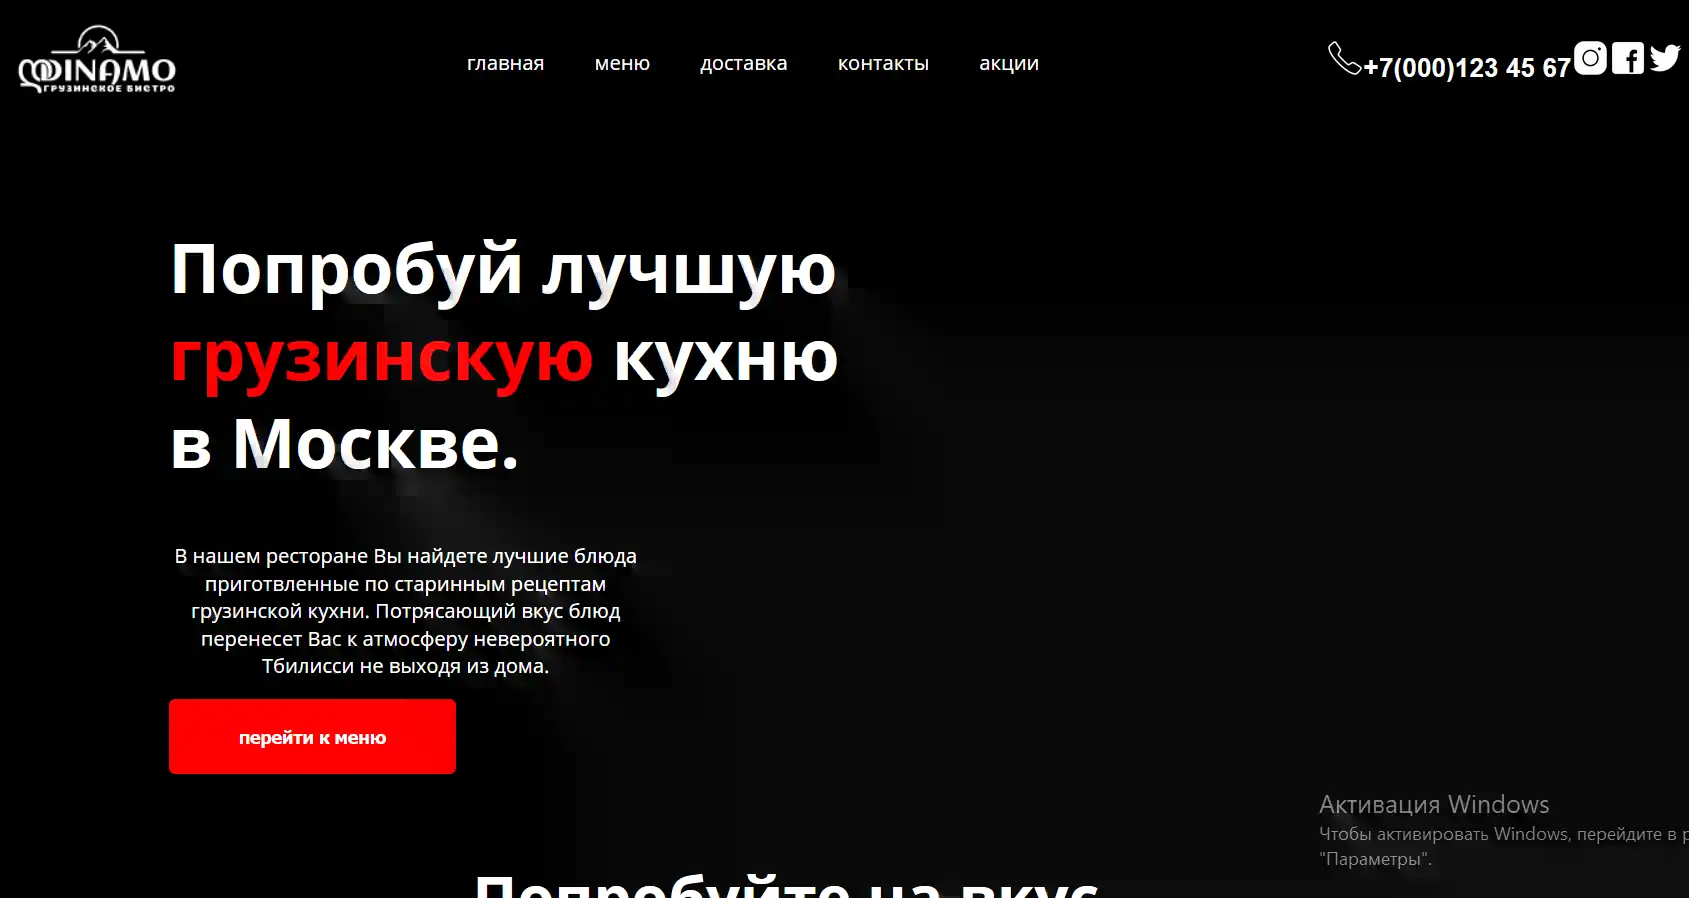
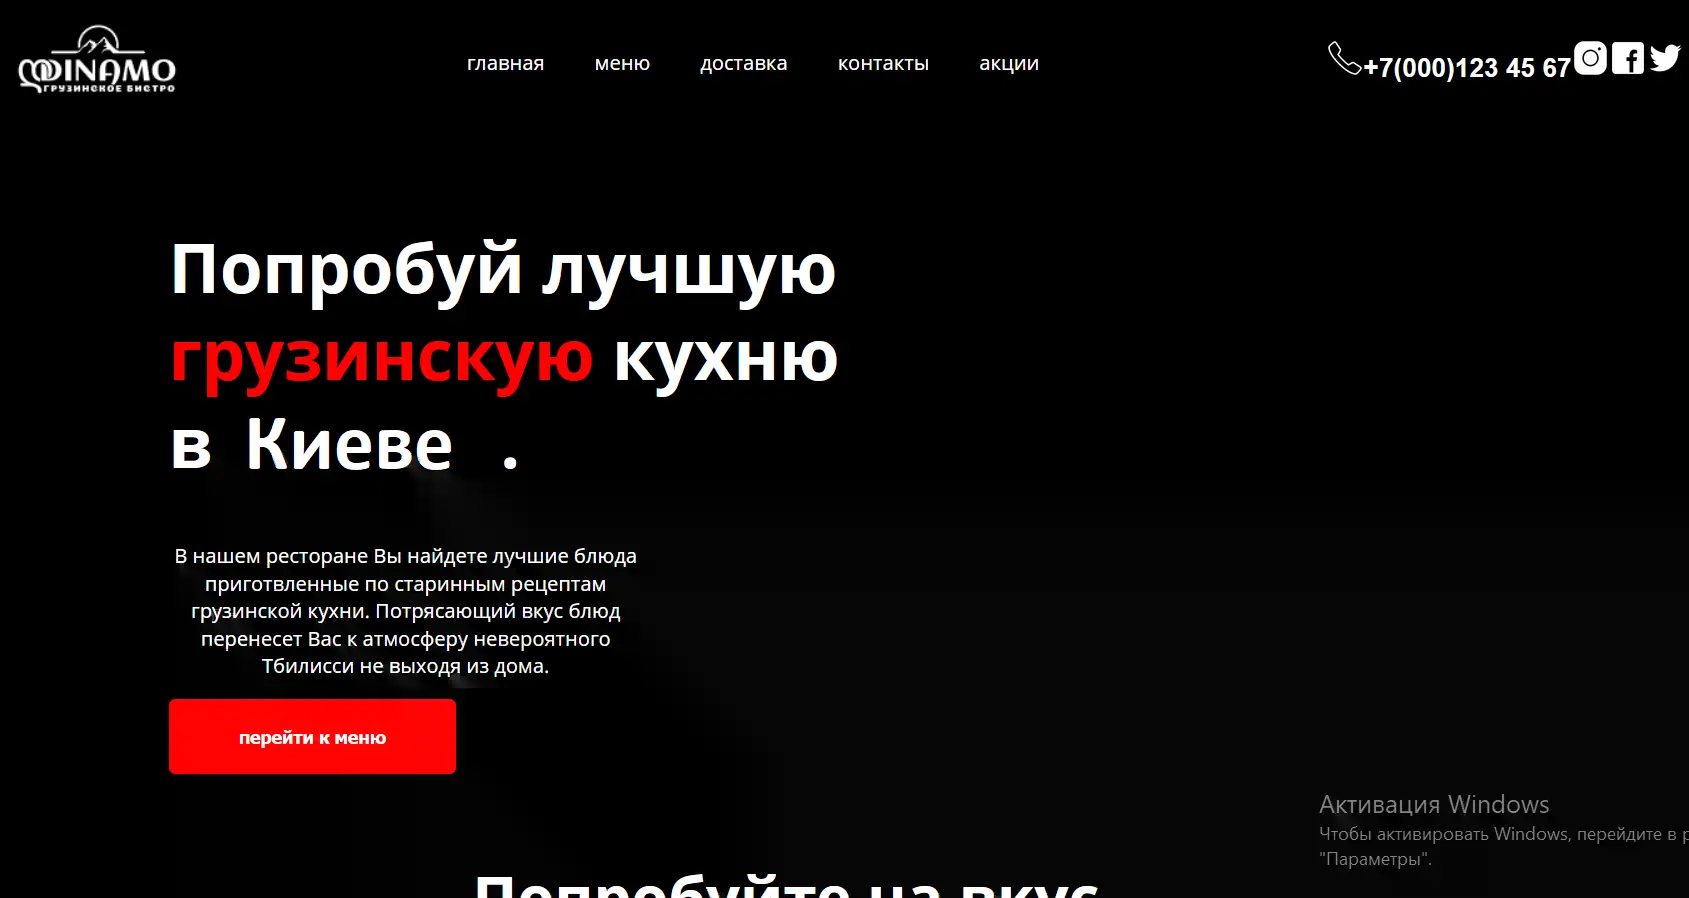
feat: Create

diff --git a/web/site/georgianProject/index.html b/web/site/georgianProject/index.html
@@ -22,7 +22,7 @@
         </nav>
         <section class="social-section">
             <ul>
-                <li><img src="./img/icons8-phone-100.png" alt="namber phone"><a href="#">+7(000)123 45 67</a></li>
+                <li><img src="./img/icons8-phone-100.png" alt="namber phone"><a href="#">+38 (000)123 45 67</a></li>
                 <li><a href="#"><img src="./img/icons8-instagram-100.png" alt="instagram"></a></li>
                 <li><a href="#"></a><img src="./img/icons8-facebook-100.png" alt="facebook"></li>
                 <li><a href="#"><img src="./img/icons8-twitter-90.png" alt="twiter"></a></li>
@@ -34,7 +34,7 @@
             <div>
                 <h1>Попробуй лучшую<br>
                     <span>грузинскую</span> кухню<br>
-                    в Москве.</h1>
+                    в Киеве.</h1>
                 <p class="discryption">
                     В нашем ресторане Вы найдете лучшие блюда приготвленные по старинным рецептам грузинской кухни.
                     Потрясающий вкус блюд перенесет Вас к атмосферу невероятного Тбилисси не выходя из дома.

diff --git a/web/site/landing/main.css b/web/site/landing/main.css
@@ -20,7 +20,7 @@ main{
 
     width: 100%;
 
-    background: url(/img/HG.png) no-repeat;
+    background: url(./img/HG.png) no-repeat;
     background-size: 100% 40vh;
 
     background-position-y: 0vh;
@@ -37,7 +37,7 @@ main::after{
     width: 100%;
     height: 100vh;
 
-    background: url(/img/MG.png) no-repeat;
+    background: url(./img/MG.png) no-repeat;
     
     background-position-y: 30vh;
     background-size: 100% 80vh;
@@ -54,7 +54,7 @@ main::before{
     width: 100%;
     height: 100vh;
 
-    background: url(/img/BG\ Hero.png);
+    background: url(./img/BG\ Hero.png);
     z-index: 0;
 }
 

diff --git a/index.html b/index.html
@@ -114,6 +114,7 @@
 					<h3></h3>
 				</template>
 			</section>
+
 			<div class="go-up-btn"><a href="#aboutMe"></a></div>
 		</main>
 		
@@ -142,7 +143,7 @@
 
 		<div id="mainModal" class="modal">
 			<div id="hederModal" class="header-modal">
-				<span id="closeModal" class="close-modal">x</span>
+				<span id="closeModal" class="close-modal"></span>
 			</div>
 			<div id="modalContet" class="modal-contet">
 			</div>

diff --git a/web/site/georgianProject/style/style.css b/web/site/georgianProject/style/style.css
@@ -116,7 +116,7 @@ main {
       rgba(0, 0, 0, 0.6) 7%,
       rgba(0, 0, 0, 0) 22.13%
     ),
-    url(/img/Rectangle\ 1.png) no-repeat, #000000;
+    url(./img/Rectangle\ 1.png) no-repeat, #000000;
   background-size: 100%;
 }
 

diff --git a/modal/modal.css b/modal/modal.css
@@ -38,7 +38,7 @@
     font-weight: bold;
     color: #fff;
     z-index: 12;
-    background: url(/modal/closeBg.png);
+    background: url(./closeBg.png);
     background-size: 100%;
     background-position: center;
 }
